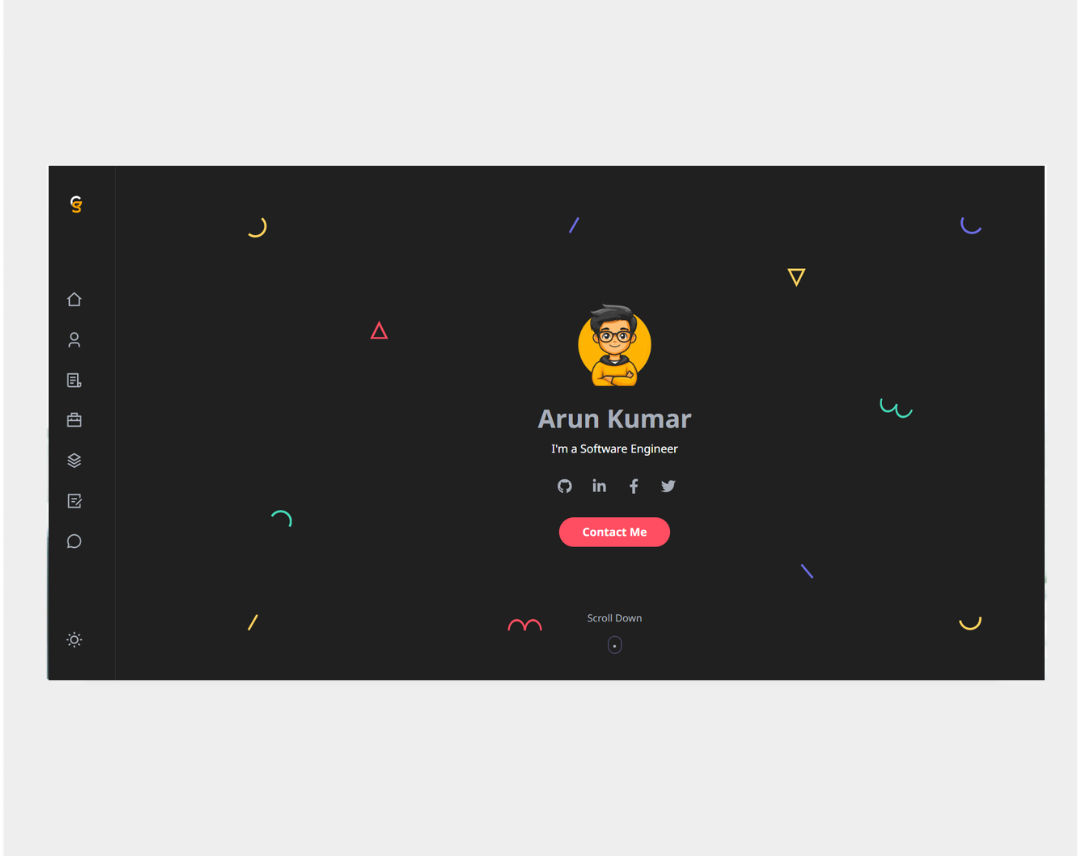
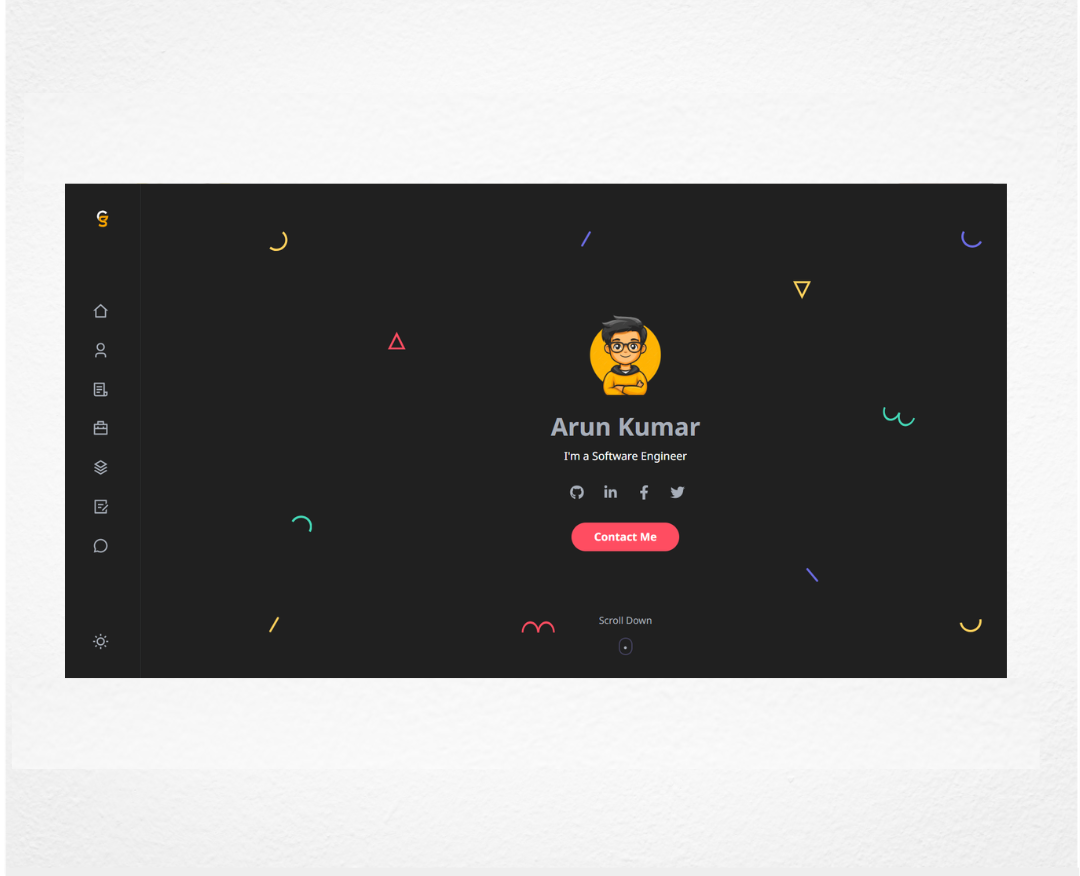
change in conference and achievements.

diff --git a/src/components/blog/Blog.jsx b/src/components/blog/Blog.jsx
@@ -2,11 +2,13 @@ import React from "react";
 import "./Blog.css";
 
 import Image1 from "../../assets/Conference.png";
+import Image2 from "../../assets/Conference-1.png";
+import Image3 from "../../assets/Conference-2.png";
 
 const Blog = () => {
   return (
     <section className="blog container section" id="blog">
-      <h2 className="section__title">Conference</h2>
+      <h2 className="section__title">Conference Publications</h2>
 
       <div className="blog__container grid">
         <div className="blog__card">
@@ -19,7 +21,7 @@ const Blog = () => {
               rel="noopener noreferrer"
             >
               <span className="blog__category">
-                Presented Paper at ICCSICE'24
+                ICCSICE 2024 – Paper Presentation
               </span>
             </a>
 
@@ -42,6 +44,75 @@ const Blog = () => {
             </div>
           </div>
         </div>
+
+        <div className="blog__card">
+          <div className="blog__thumb">
+            {/* <a href="https://drive.google.com/file/d/148nrb_LQuCg-MTT21EF6PYxmS1xHekmH/view?usp=drive_link"><span className="blog__category">Presented Paper at ICCSICE'24</span></a>
+                        <a href="https://drive.google.com/file/d/148nrb_LQuCg-MTT21EF6PYxmS1xHekmH/view?usp=drive_link"><img src={Image1} alt="" className='blog__img' /></a> */}
+            <a
+              href="https://drive.google.com/file/d/1lCLhLTcVw3UlTjHB3deysodWXp1uq5NY/view?usp=drivesdk"
+              target="_blank"
+              rel="noopener noreferrer"
+            >
+              <span className="blog__category">
+                ICIMSS 2024 – International Conference
+              </span>
+            </a>
+
+            <a
+              href="https://drive.google.com/file/d/1lCLhLTcVw3UlTjHB3deysodWXp1uq5NY/view?usp=drivesdk"
+              target="_blank"
+              rel="noopener noreferrer"
+            >
+              <img src={Image2} alt="" className="blog__img" />
+            </a>
+          </div>
+          <div className="blog__details">
+            <h3 className="blog__title">
+              Innovative Materials and Smart Solutions for Sustainability Systems
+            </h3>
+            <div className="blog__meta">
+              <span>27th - 28th, December 2024</span>
+              {/* <span className="blog__dot">.</span>
+                            <span>Arun Kumar.M, Dharsini.M</span> */}
+            </div>
+          </div>
+        </div>
+        
+        <div className="blog__card">
+          <div className="blog__thumb">
+            {/* <a href="https://drive.google.com/file/d/148nrb_LQuCg-MTT21EF6PYxmS1xHekmH/view?usp=drive_link"><span className="blog__category">Presented Paper at ICCSICE'24</span></a>
+                        <a href="https://drive.google.com/file/d/148nrb_LQuCg-MTT21EF6PYxmS1xHekmH/view?usp=drive_link"><img src={Image1} alt="" className='blog__img' /></a> */}
+            <a
+              href="https://drive.google.com/file/d/103kCYMFUpKjQIRFJm2-zERqgE_C0HKld/view?usp=drivesdk"
+              target="_blank"
+              rel="noopener noreferrer"
+            >
+              <span className="blog__category">
+                ICATSM 2025 – Paper Presentation
+              </span>
+            </a>
+
+            <a
+              href="https://drive.google.com/file/d/103kCYMFUpKjQIRFJm2-zERqgE_C0HKld/view?usp=drivesdk"
+              target="_blank"
+              rel="noopener noreferrer"
+            >
+              <img src={Image3} alt="" className="blog__img" />
+            </a>
+          </div>
+          <div className="blog__details">
+            <h3 className="blog__title">
+              Advanced Technologies in Electronics, Signal Processing and Circuit Design
+            </h3>
+            <div className="blog__meta">
+              <span>12th - 13th, March 2025</span>
+              {/* <span className="blog__dot">.</span>
+                            <span>Arun Kumar.M, Dharsini.M</span> */}
+            </div>
+          </div>
+        </div>
+
       </div>
     </section>
   );

diff --git a/src/components/services/Menu.jsx b/src/components/services/Menu.jsx
@@ -3,44 +3,52 @@ import Work2 from "../../assets/winner-2.png";
 import Work3 from "../../assets/winner-3.png";
 import Work4 from "../../assets/winner-4.png";
 import Work5 from "../../assets/winner-5.png";
+import Work6 from "../../assets/winner-6.png";
 
 const Menu = [
   {
     id: 1,
     image: Work1,
-    title: "Neo Codeathon 2024 - Winner",
+    title: "Winner – All India Neo Codeathon 2024",
     category: ["Codeathon Winner"],
     url: "https://drive.google.com/file/d/1TWLyRruS8-JgnGA90t16oeG9TkjNaZWZ/view?usp=sharing",
     // url:"winner-1.png"
   },
   {
-    id: 2,
+    id: 3,
     image: Work2,
-    title: "First Year - Secured 1st Rank",
-    category: ["First Rank Holder"],
+    title: "1st Rank Holder – First Year",
+    category: ["Academic Excellence"],
     url: "https://drive.google.com/file/d/1RGChb1jpM1M7yL4aYJV-mY7Aq-40FAxp/view?usp=sharing",
   },
   {
-    id: 3,
+    id: 4,
     image: Work3,
-    title: "Second Year - Secured 1st Rank",
-    category: ["First Rank Holder"],
+    title: "1st Rank Holder – Second Year",
+    category: ["Academic Excellence"],
     url: "https://drive.google.com/file/d/1ENk3gZgxwTmr-8LqOQj0R0qIP7s8Z-aE/view?usp=sharing",
   },
   {
-    id: 4,
+    id: 5,
     image: Work4,
-    title: "Third Year - Secured 2nd Rank",
-    category: ["Second Rank Holder"],
+    title: "2nd Rank Holder – Third Year",
+    category: ["Academic Excellence"],
     url: "https://drive.google.com/file/d/1mQCwwWngOvG0hqDqOVO-lqMflSMshTfE/view?usp=drive_link",
   },
   {
-    id: 5,
+    id: 2,
     image: Work5,
     title: "Gold Medalist - Ranked 1st in Department",
-    category: ["Gold Medalist"],
+    category: ["Academic Excellence"],
     url: "https://drive.google.com/file/d/1Y5efjJ2G5sbBStuiJF6x51myYPf5HzXn/view?usp=drivesdk",
   },
+  {
+    id: 6,
+    image: Work6,
+    title: "Best Paper Award – Oral Cancer Detection using Deep Learning",
+    category: ["Research Achievement"],
+    url: "https://drive.google.com/file/d/1YyByrWz2B4t37RGI-Z07_eMiOw5tzP-A/view?usp=drivesdk",
+  }
 ];
 
 export default Menu;

diff --git a/src/components/services/Services.jsx b/src/components/services/Services.jsx
@@ -98,15 +98,15 @@ const Portfolio = () => {
 				<span className={activeFilter === 1 ? 'portfolio__item portfolio__item-active' : 'portfolio__item'} onClick={() => { filterItems("Codeathon Winner"); setActiveFilter(1) }}>
                     Codeathon Winner
 				</span>
-				<span className={activeFilter === 2 ? 'portfolio__item portfolio__item-active' : 'portfolio__item'} onClick={() => { filterItems("Gold Medalist"); setActiveFilter(2) }}>
-					Gold Medalist
+				<span className={activeFilter === 2 ? 'portfolio__item portfolio__item-active' : 'portfolio__item'} onClick={() => { filterItems("Academic Excellence"); setActiveFilter(2) }}>
+					Academic Excellence
 				</span>
-				<span className={activeFilter === 3 ? 'portfolio__item portfolio__item-active' : 'portfolio__item'} onClick={() => { filterItems("First Rank Holder"); setActiveFilter(3) }}>
-					First Rank Holder
+				<span className={activeFilter === 3 ? 'portfolio__item portfolio__item-active' : 'portfolio__item'} onClick={() => { filterItems("Research Achievement"); setActiveFilter(3) }}>
+					Research Achievement
 				</span>
-                <span className={activeFilter === 4 ? 'portfolio__item portfolio__item-active' : 'portfolio__item'} onClick={() => { filterItems("Second Rank Holder"); setActiveFilter(4) }}>
+                {/* <span className={activeFilter === 4 ? 'portfolio__item portfolio__item-active' : 'portfolio__item'} onClick={() => { filterItems("Second Rank Holder"); setActiveFilter(4) }}>
 					Second Rank Holder
-				</span>
+				</span> */}
 			</div>
 
 			<div className="portfolio__container grid">
